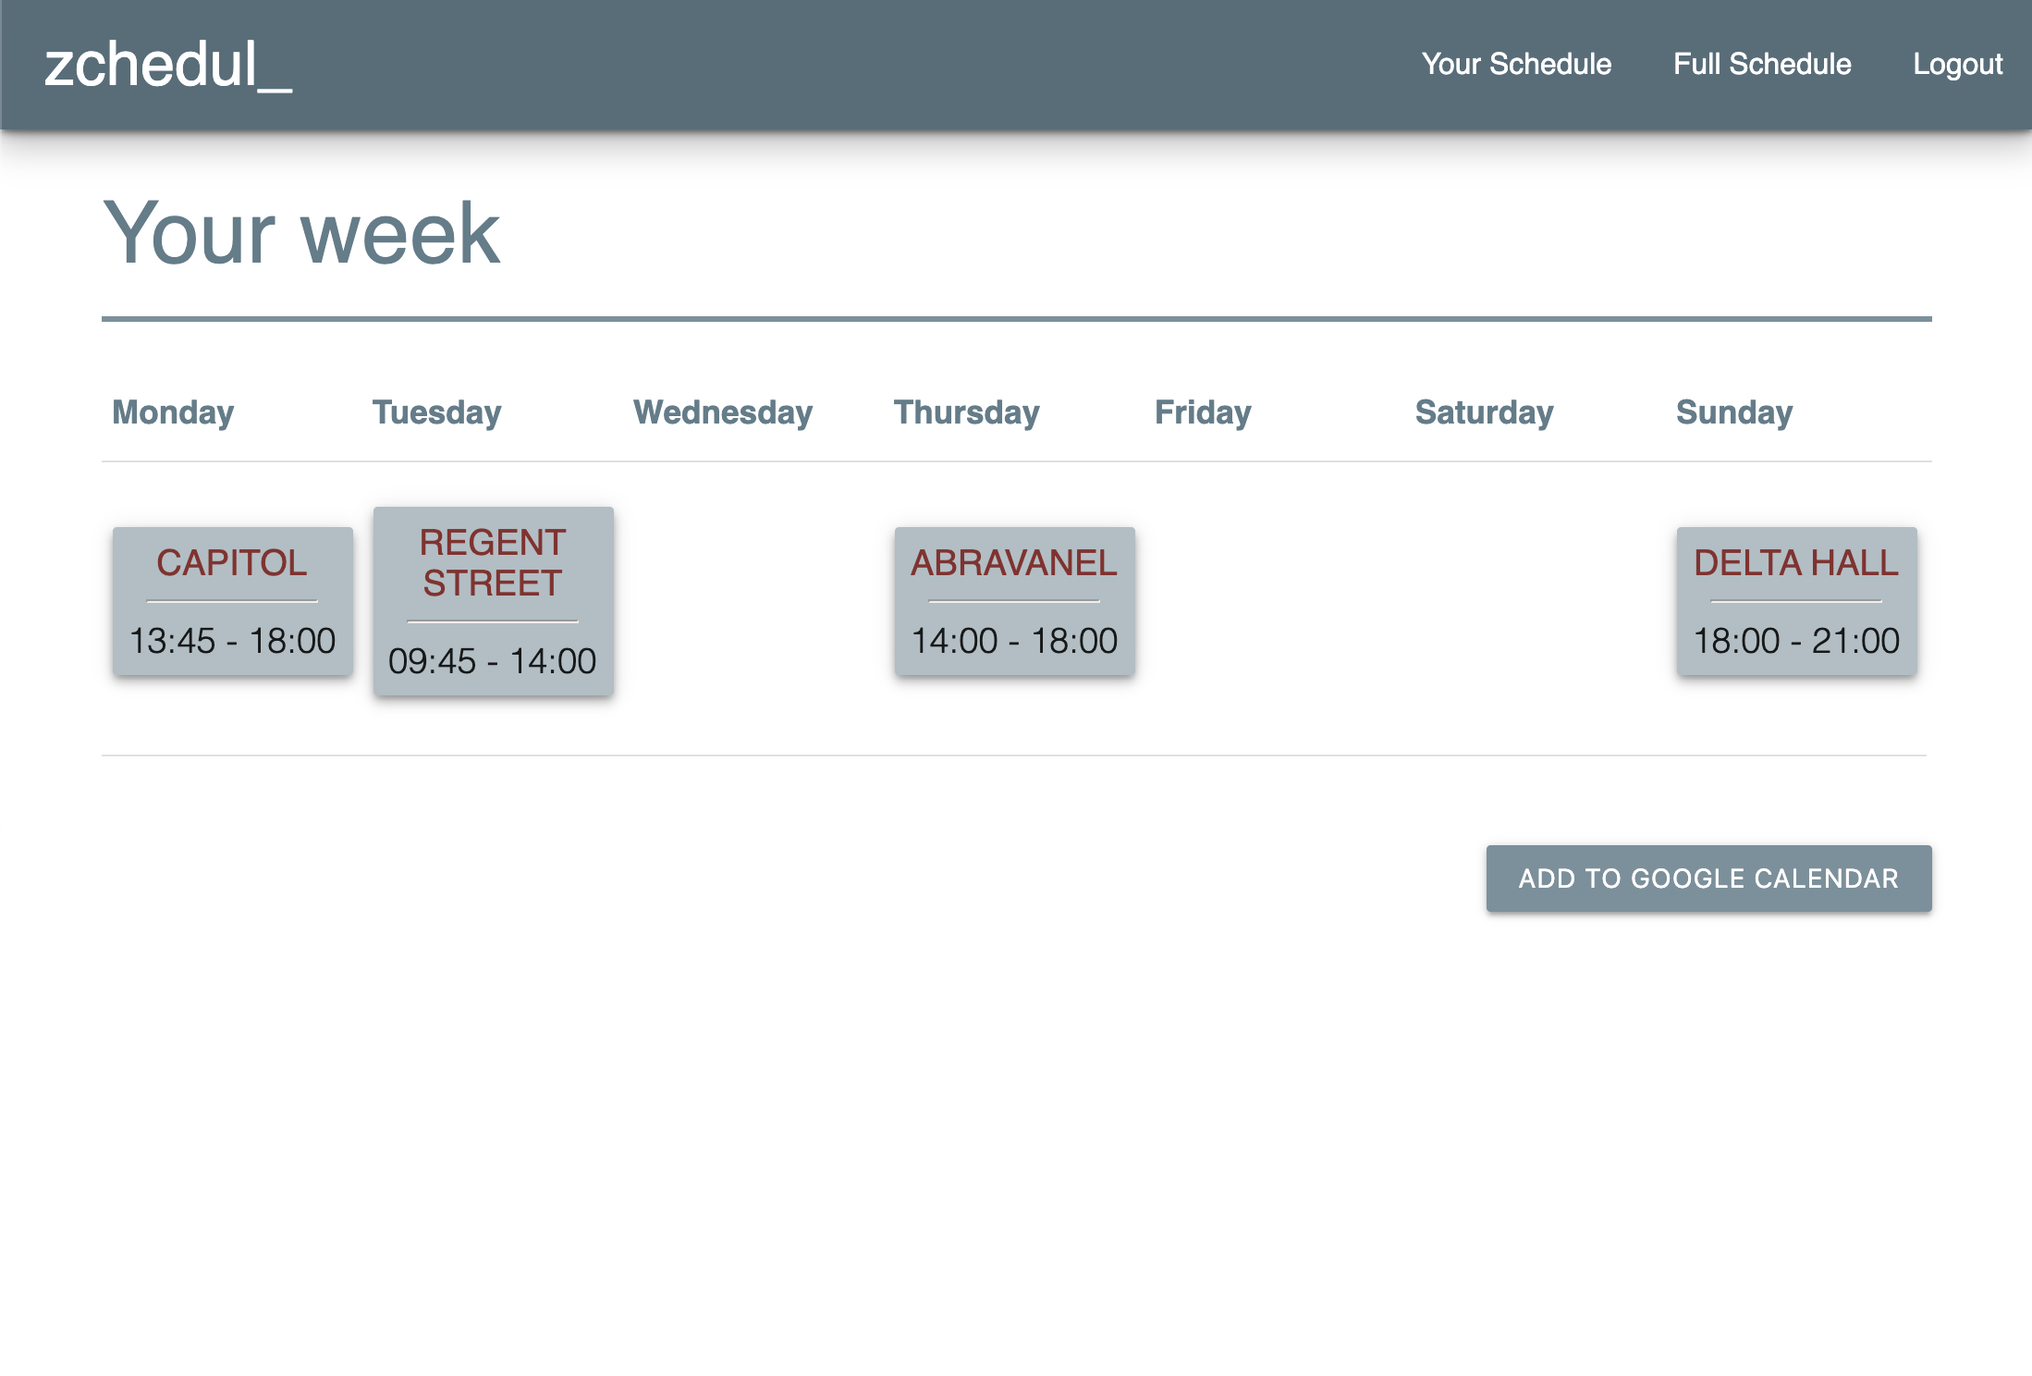
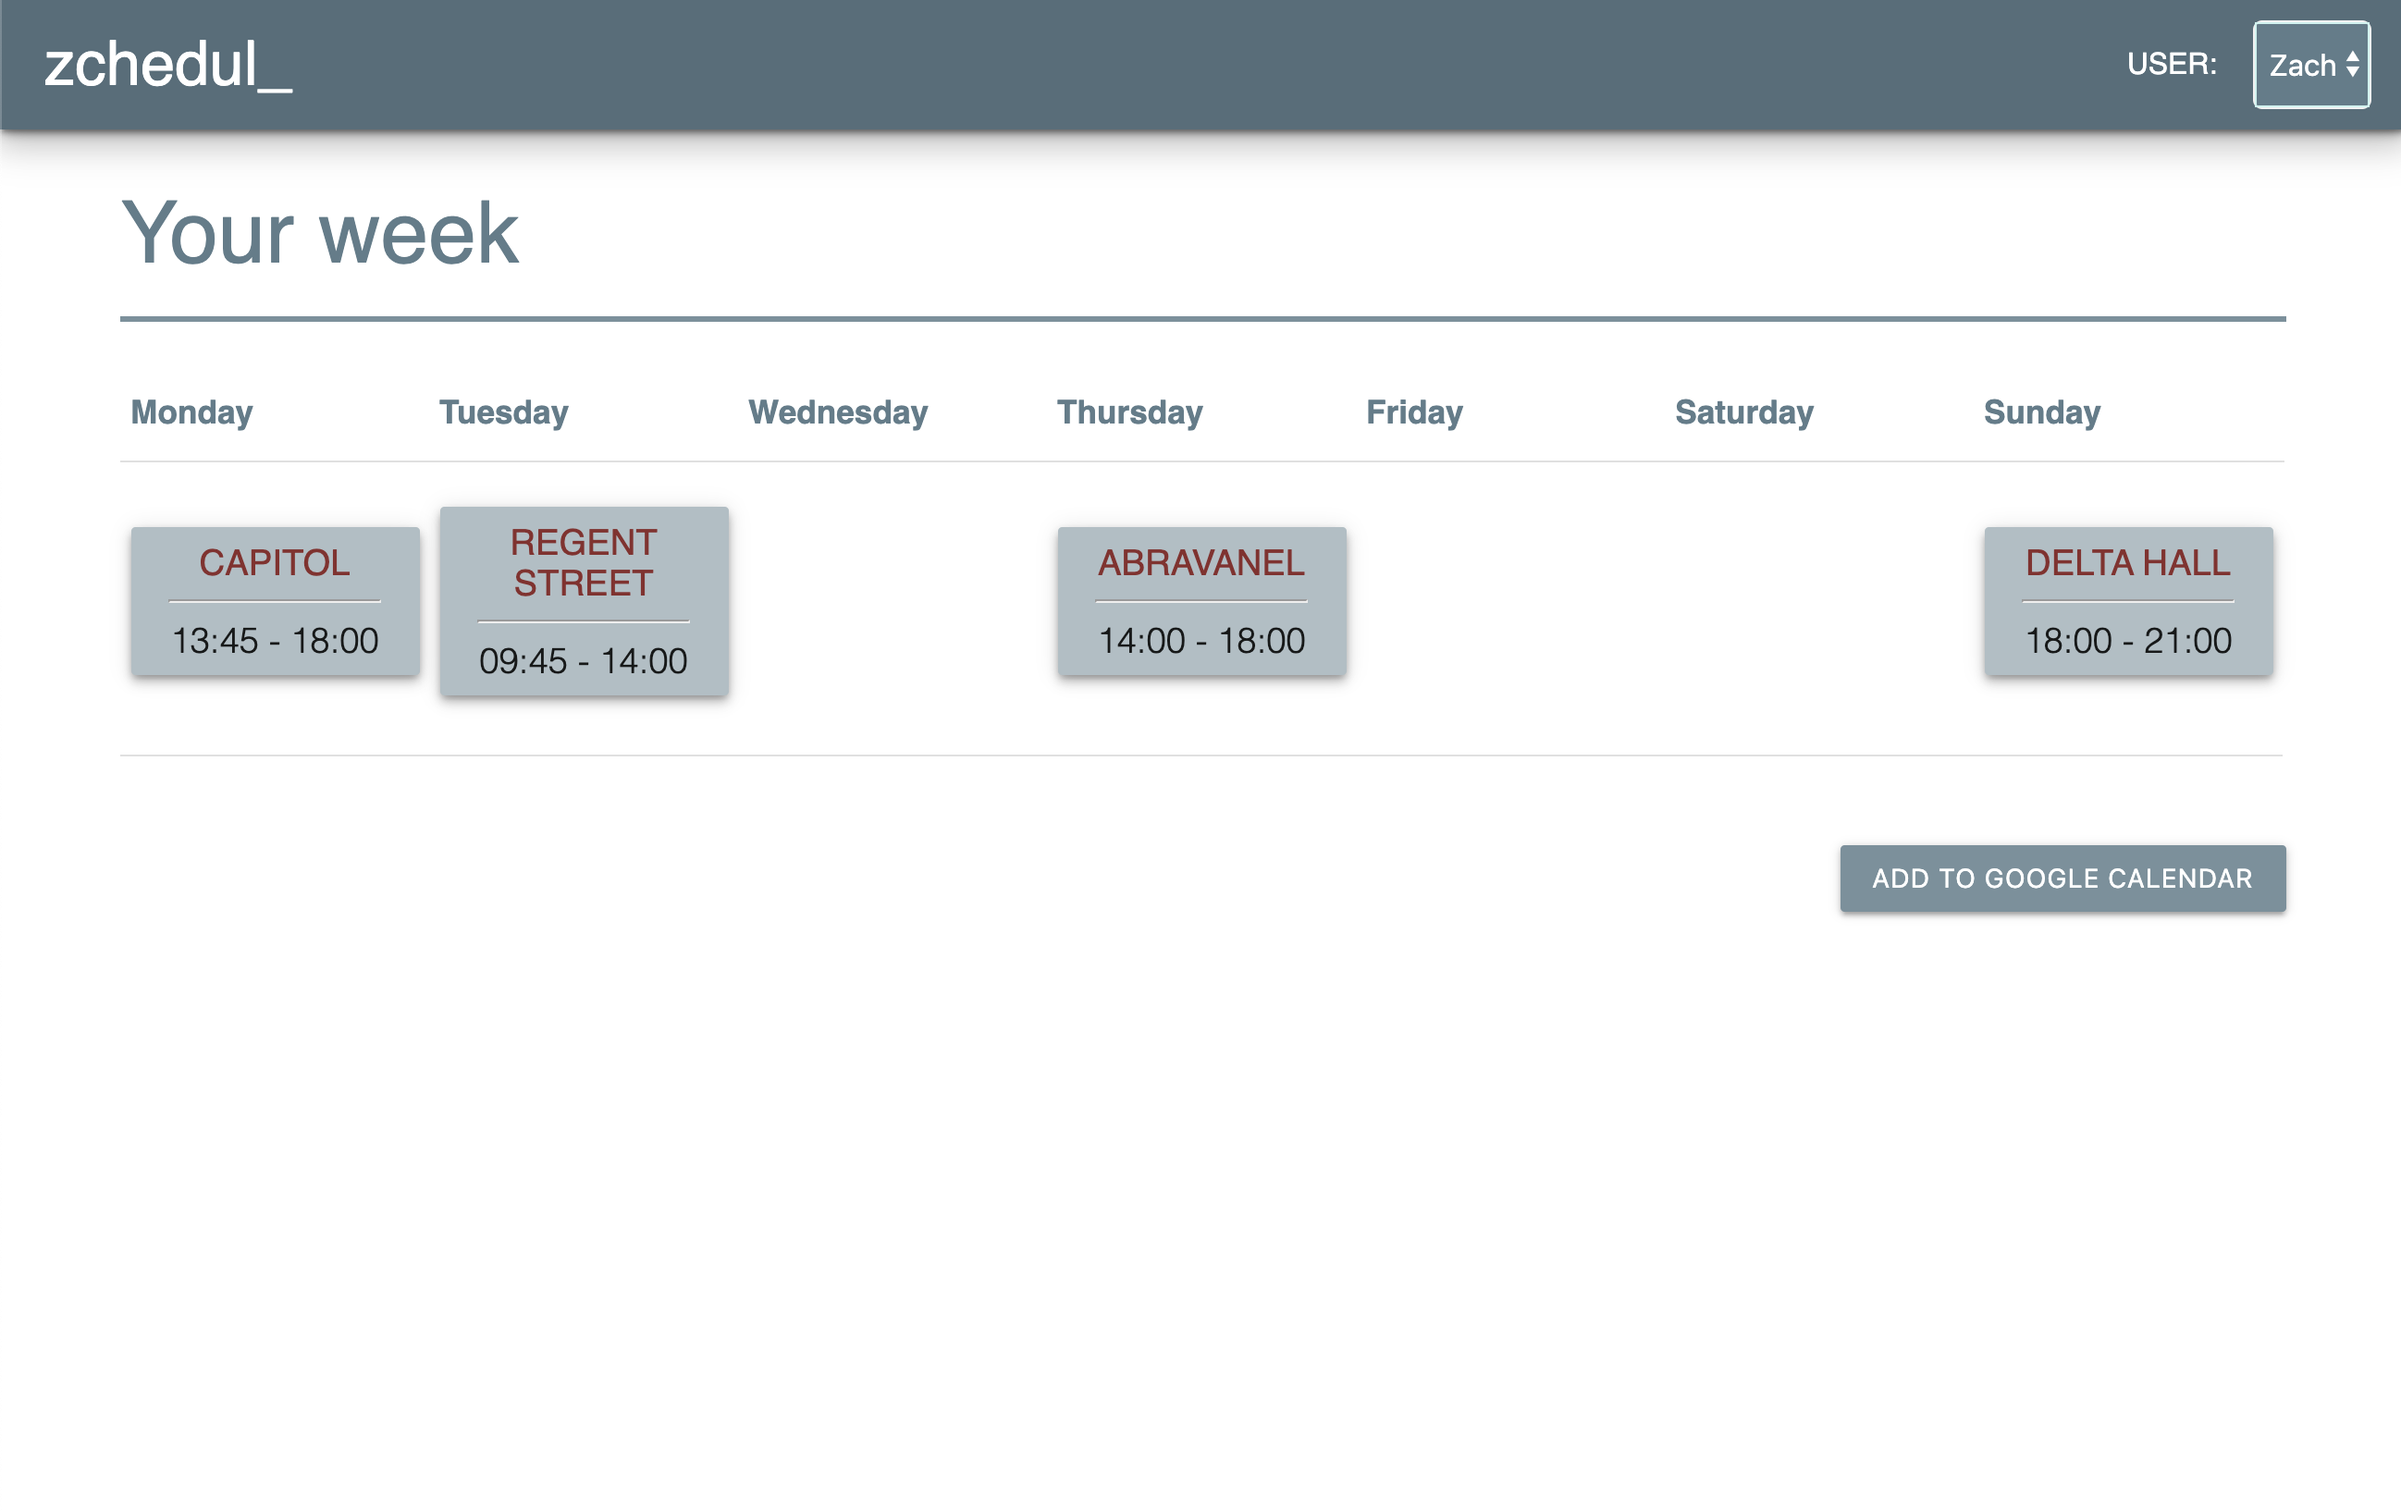
multiple users

diff --git a/src/components/App.js b/src/components/App.js
@@ -1,88 +1,68 @@
-import React from 'react';
+import React, { useState, useEffect } from 'react';
+import empSched from "../empSched";
 
 const App = () => {
+  const [user, setUser] = useState('')
+  const [userShifts, setUserShifts] = useState([])
 
-  // Dummy Data
-  const empSched = {
-    shifts: [
-      {
-        building: 'Capitol',
-        calDay: '2019-09-08',
-        weekDay: 'monday',
-        startTime: '13:45',
-        endTime: '18:00'
-      },
-      {
-        building: 'Regent Street',
-        calDay: '2019-10-08',
-        weekDay: 'tuesday',
-        startTime: '09:45',
-        endTime: '14:00'
-      },
-      {
-        building: 'Abravanel',
-        calDay: '2019-13-08',
-        weekDay: 'thursday',
-        startTime: '14:00',
-        endTime: '18:00'
-      },
-      {
-        building: 'Delta Hall',
-        calDay: '2019-16-08',
-        weekDay: 'sunday',
-        startTime: '18:00',
-        endTime: '21:00'
-      }
-    ]
-  }
+  useEffect(() => setUserShifts([...empSched.shifts.filter(s => s.employee == user)]), [user])
 
   const weekdays = ['monday', 'tuesday', 'wednesday', 'thursday', 'friday', 'saturday', 'sunday']
 
   // Doesn't work for multiple shifts in one day because find() / indexOf() return first match.
   return (
     <>
-      <nav>
+      <nav style={{ marginBottom: '1rem' }}>
         <div className="nav-wrapper blue-grey darken-1 z-depth-3">
           <a href="#" className="brand-logo" style={{ marginLeft: '1.5rem' }}>zchedul_</a>
-          <ul className="right">
-          <li><a href="#">Your Schedule</a></li>
-            <li><a href="#">Full Schedule</a></li>
-            <li><a href="#">Logout</a></li>
+          <ul className="right valign-wrapper" style={{ marginRight: '1.2rem' }}>
+            <li>
+              <div style={{ marginRight: '1.2rem' }}>USER:</div>
+            </li>
+            <li>
+              <select onChange={e => setUser(e.target.value)} className="browser-default" style={{ color: '#ffffff', backgroundColor: '#607d8b' }}>
+                <option value="" selected></option>
+                <option value="zach">Zach</option>
+                <option value="ana">Ana</option>
+                <option value="bob">Bob</option>
+              </select>
+            </li>
           </ul>
         </div>
       </nav>
 
-      <div className="container" style={{width: '90vw'}}>
+
+      <div className="container" style={{ width: '90vw' }}>
         <div className="row blue-grey-text" style={{ borderBottom: '0.2em solid #78909c' }}>
           <h3 style={{ fontWeight: 500 }}>Your week</h3>
         </div>
-        <table style={{tableLayout:'fixed'}}>
+        <table style={{ tableLayout: 'fixed' }}>
           <thead>
             <tr className="row blue-grey-text">
-              <th style={{width: '14.28%'}}>Monday</th>
-              <th style={{width: '14.28%'}}>Tuesday</th>
-              <th style={{width: '14.28%'}}>Wednesday</th>
-              <th style={{width: '14.28%'}}>Thursday</th>
-              <th style={{width: '14.28%'}}>Friday</th>
-              <th style={{width: '14.28%'}}>Saturday</th>
-              <th style={{width: '14.28%'}}>Sunday</th>
+              <th style={{ width: '14.28%' }}>Monday</th>
+              <th style={{ width: '14.28%' }}>Tuesday</th>
+              <th style={{ width: '14.28%' }}>Wednesday</th>
+              <th style={{ width: '14.28%' }}>Thursday</th>
+              <th style={{ width: '14.28%' }}>Friday</th>
+              <th style={{ width: '14.28%' }}>Saturday</th>
+              <th style={{ width: '14.28%' }}>Sunday</th>
             </tr>
           </thead>
           <tbody className="row">
             <tr>
               {weekdays.map(day => {
-                const shiftInd = empSched.shifts.map(s=>s.weekDay).indexOf(day)
+                const shiftInd = userShifts.map(s => s.weekDay).indexOf(day)
                 if (shiftInd >= 0) {
                   return (
                     <td>
-                      <div className="card blue-grey lighten-3 z-depth-2" style={{padding: '0.5rem'}}>
+                      <div className="card blue-grey lighten-3 z-depth-2" style={{ padding: '0.5rem' }}>
                         <div className="card-title center-align"
-                          style={{color: '#892d2d', fontSize: '1.2rem', fontWeight: '500', textTransform:'uppercase'}}>
-                            {empSched.shifts[shiftInd].building}
+                          style={{ color: '#892d2d', fontSize: '1.2rem', fontWeight: '500', textTransform: 'uppercase' }}>
+                          {userShifts[shiftInd].building}
                         </div>
-                        <hr style={{width: '80%'}}></hr>
-                        <div className="card-title center-align" style={{fontSize: '1.2rem'}}>
-                          <span>{empSched.shifts[shiftInd].startTime + ' - ' +  empSched.shifts[shiftInd].endTime}</span>
+                        <hr style={{ width: '80%' }}></hr>
+                        <div className="card-title center-align" style={{ fontSize: '1.2rem' }}>
+                          <span>{userShifts[shiftInd].startTime + ' - ' + userShifts[shiftInd].endTime}</span>
                         </div>
                       </div>
                     </td>
@@ -91,7 +71,7 @@ const App = () => {
                   return <td></td>
                 }
               })}
-            </tr>         
+            </tr>
           </tbody>
         </table>
         <button className="right waves-effect waves-light btn-small blue-grey lighten-1"

diff --git a/src/empSched.js b/src/empSched.js
@@ -1,0 +1,95 @@
+const empSched = {
+  shifts: [
+    {
+      employee: 'zach',
+      building: 'Capitol',
+      calDay: '2019-09-08',
+      weekDay: 'monday',
+      startTime: '13:45',
+      endTime: '18:00'
+    },
+    {
+      employee: 'zach',
+      building: 'Regent Street',
+      calDay: '2019-10-08',
+      weekDay: 'tuesday',
+      startTime: '09:45',
+      endTime: '14:00'
+    },
+    {
+      employee: 'zach',
+      building: 'Abravanel',
+      calDay: '2019-13-08',
+      weekDay: 'thursday',
+      startTime: '14:00',
+      endTime: '18:00'
+    },
+    {
+      employee: 'zach',
+      building: 'Delta Hall',
+      calDay: '2019-16-08',
+      weekDay: 'sunday',
+      startTime: '18:00',
+      endTime: '21:00'
+    },
+
+    {
+      employee: 'ana',
+      building: 'Abravanel',
+      calDay: '2019-09-08',
+      weekDay: 'tuesday',
+      startTime: '13:45',
+      endTime: '18:00'
+    },
+    {
+      employee: 'ana',
+      building: 'Regent Street',
+      calDay: '2019-10-08',
+      weekDay: 'wednesday',
+      startTime: '09:45',
+      endTime: '14:00'
+    },
+    {
+      employee: 'ana',
+      building: 'Rose Wagner',
+      calDay: '2019-13-08',
+      weekDay: 'saturday',
+      startTime: '14:00',
+      endTime: '18:00'
+    },
+    {
+      employee: 'ana',
+      building: 'Delta Hall',
+      calDay: '2019-16-08',
+      weekDay: 'friday',
+      startTime: '18:00',
+      endTime: '21:00'
+    },
+    {
+      employee: 'bob',
+      building: 'Abravanel',
+      calDay: '2019-13-08',
+      weekDay: 'friday',
+      startTime: '14:00',
+      endTime: '18:00'
+    },
+    {
+      employee: 'bob',
+      building: 'Regent Street',
+      calDay: '2019-16-08',
+      weekDay: 'sunday',
+      startTime: '18:00',
+      endTime: '21:00'
+    },
+    {
+      employee: 'bob',
+      building: 'Rose Wagner',
+      calDay: '2019-16-08',
+      weekDay: 'monday',
+      startTime: '18:00',
+      endTime: '21:00'
+    }
+  ]
+}
+
+export default empSched

diff --git a/src/server/server.js b/src/server/server.js
@@ -19,7 +19,7 @@ server.get('/', (req, res) => {
       <body style="font-family: helvetica">
         <div id="app">${initialMarkup}</div>
         <script src="https://cdnjs.cloudflare.com/ajax/libs/materialize/1.0.0/js/materialize.min.js"></script>
-            
+
         <script src="/main.js"></script>
       </body>
     </html>
